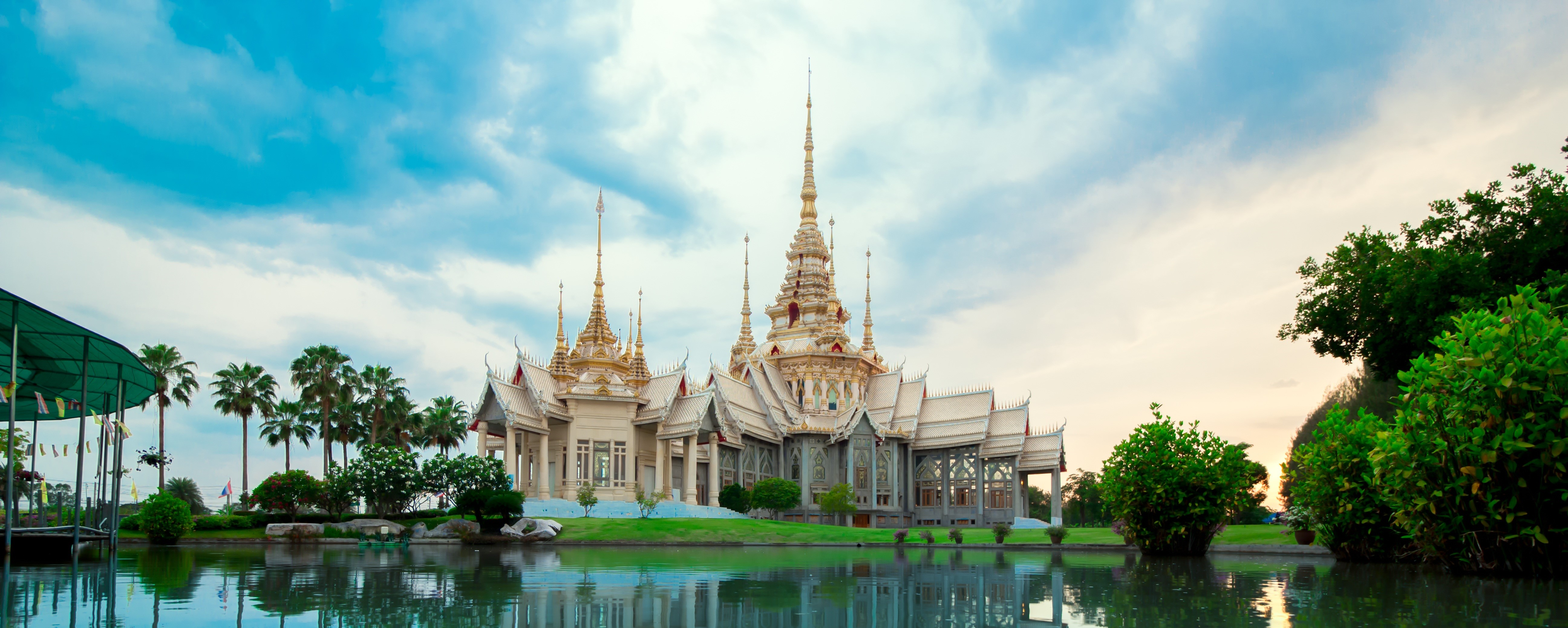
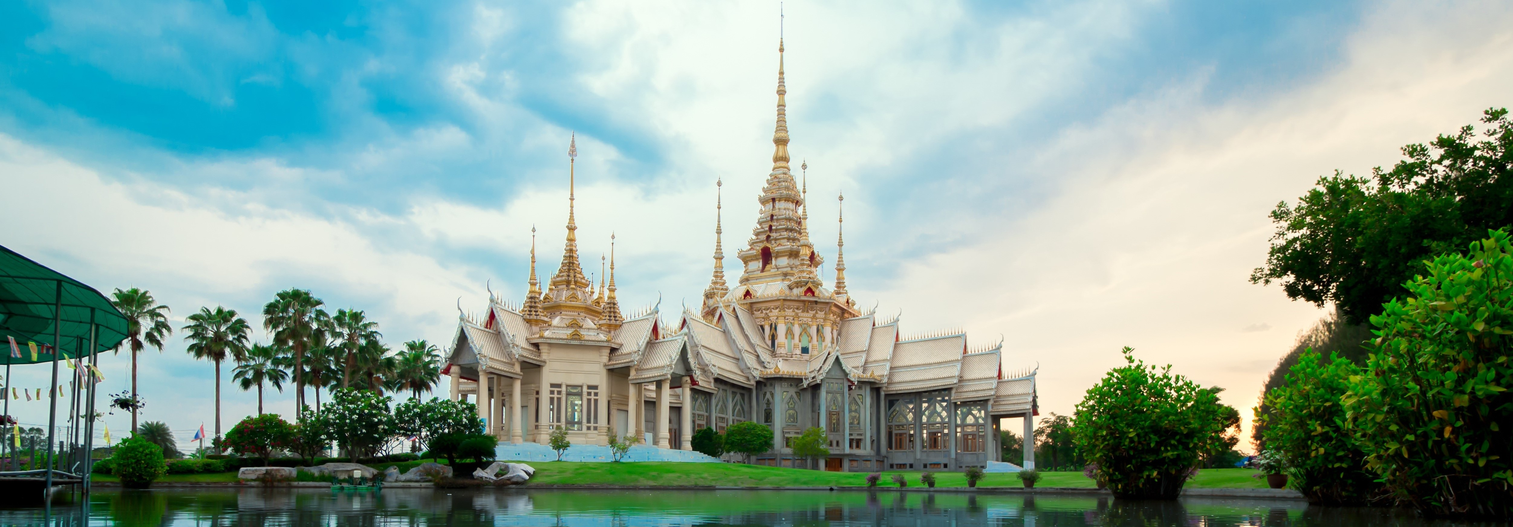
Update header images

diff --git a/docs/index.html b/docs/index.html
@@ -38,7 +38,10 @@
                 </div>
             </div>
         </nav>
-        <img class="img-header img-fluid" src="./pexels-photo-415708.jpeg">
+
+        <div class="container">
+            <img class="img-fluid" src="./pexels-photo-415708.jpeg">
+        </div>
 
         <div class="content">
             <div class="container">
